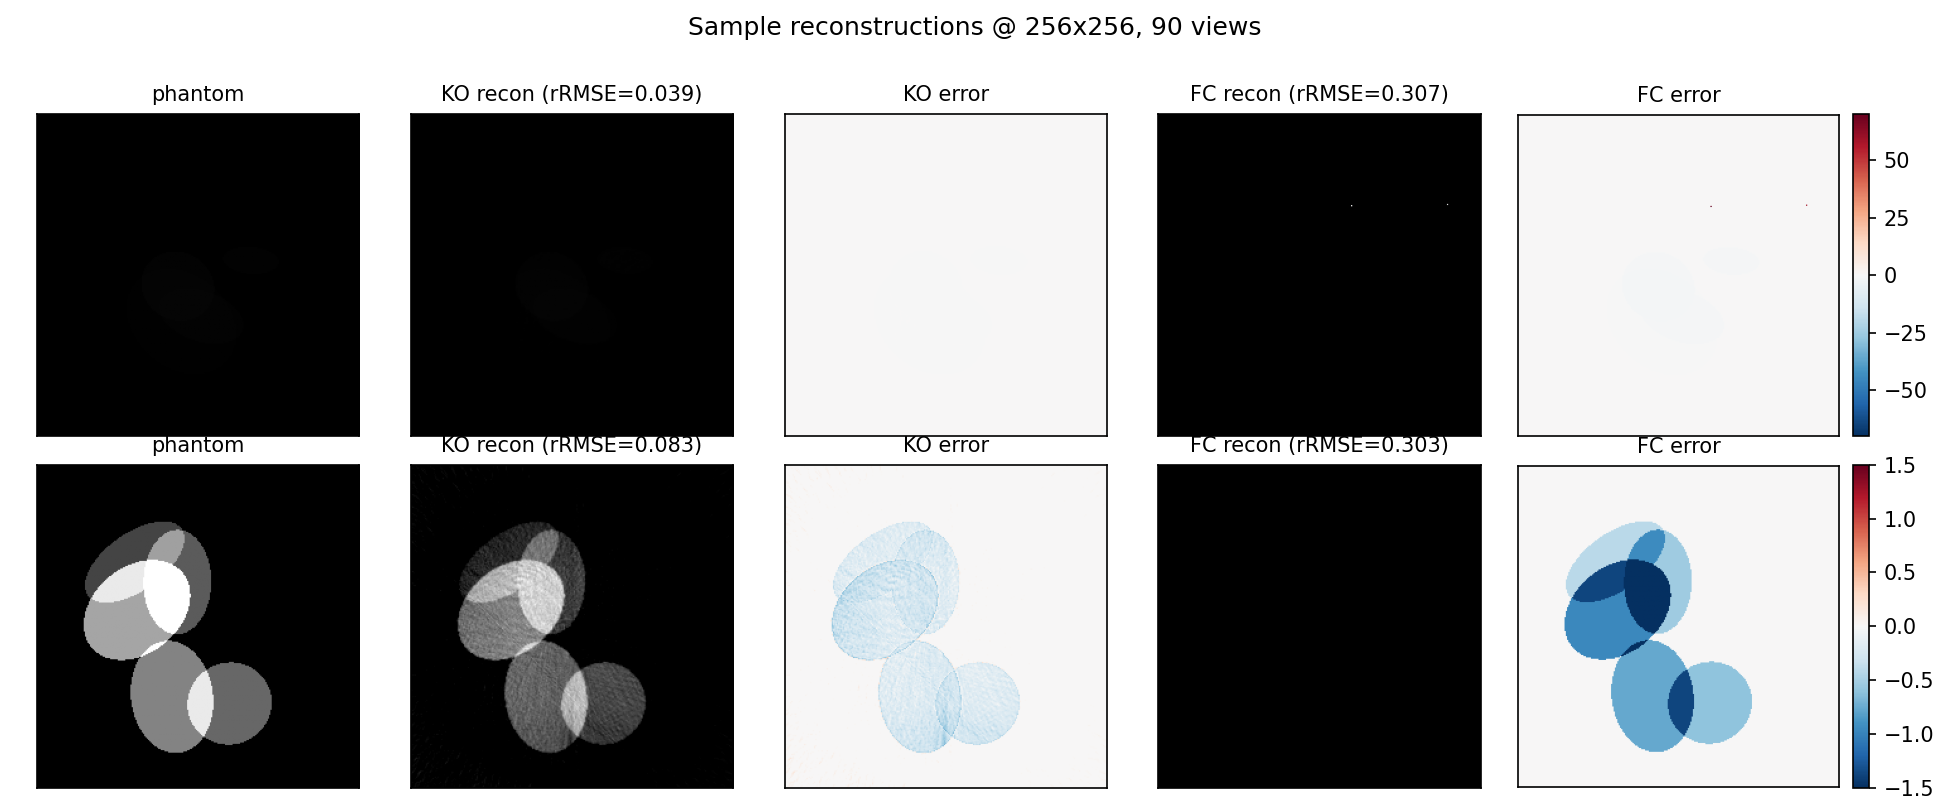
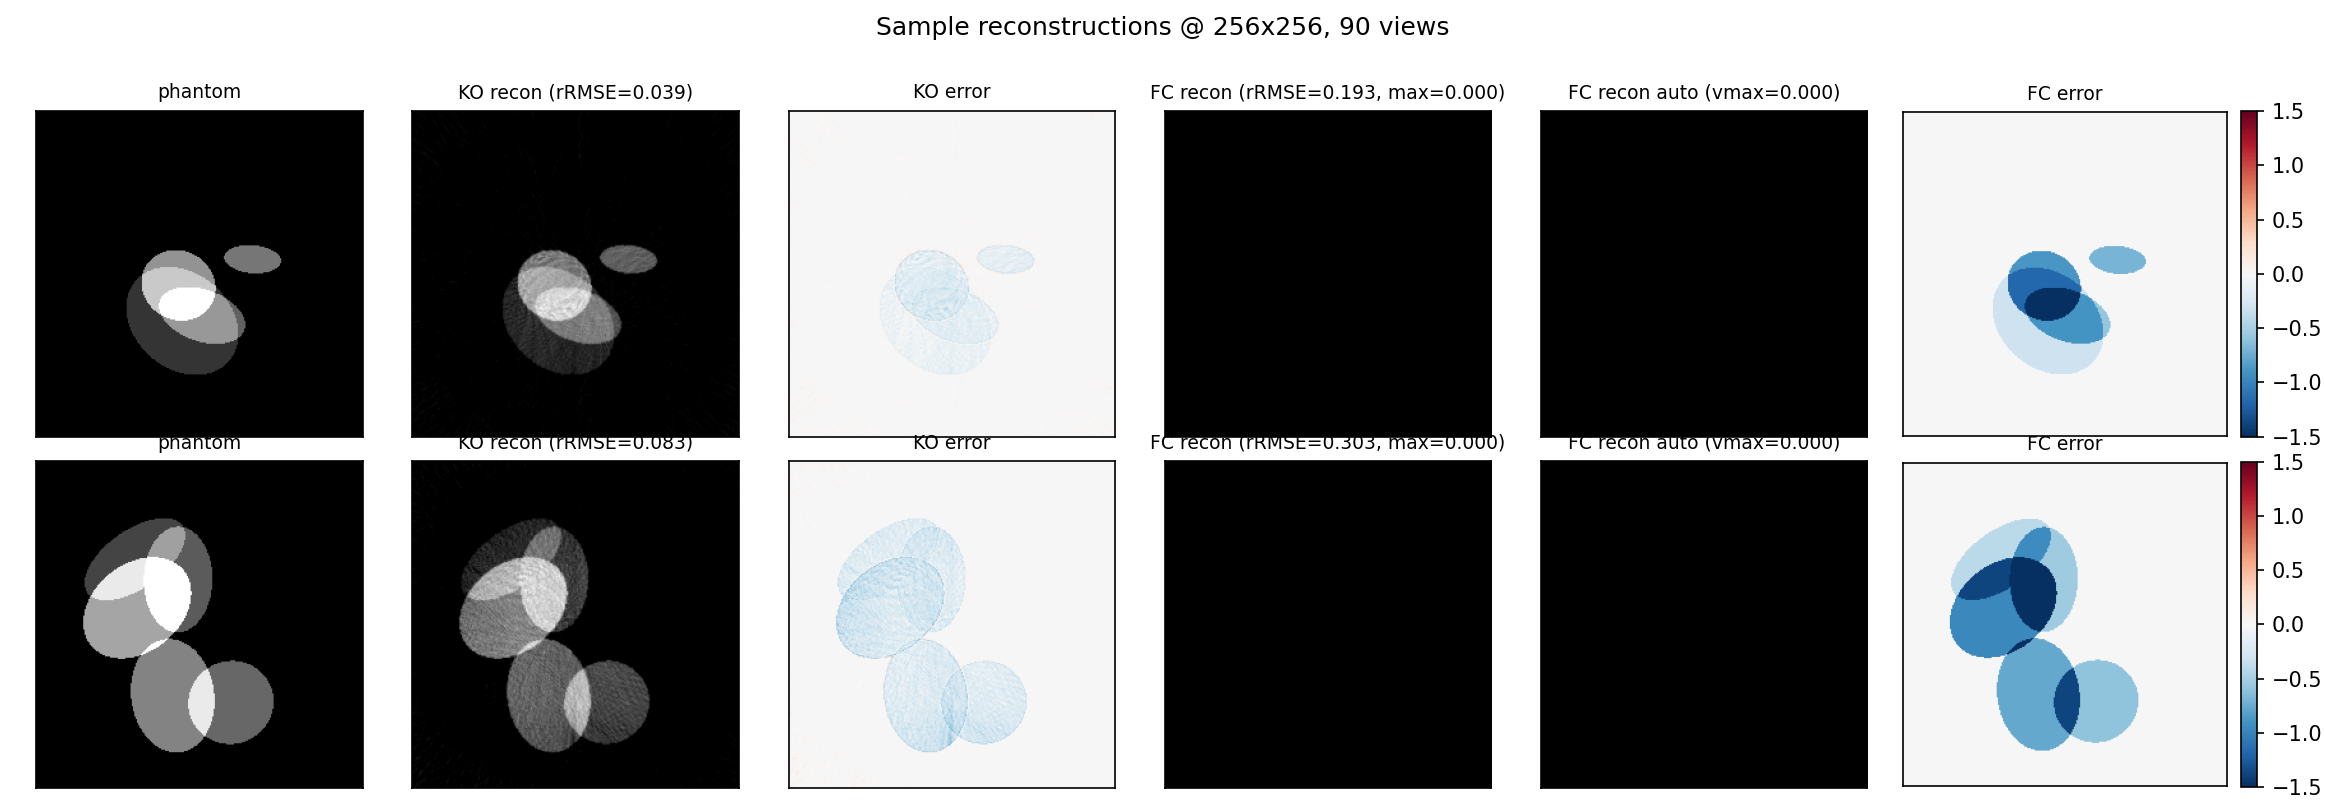
Render reconstructions with FC ablation knobs
* render_reconstructions.py: add --fc-optimizer, --fc-lr, --fc-bias,
  --fc-init, --fc-tag flags. KO is unchanged (always Adagrad with
  config-default LR); only FC's recipe varies. Useful for chasing a
  non-empty FC reconstruction past the dead-ReLU plateau the original
  Adagrad/lr=2e-2 config falls into.
* lme/slurm/recons_variant.sbatch: thin wrapper that takes the variant
  via env vars (VARIANT_TAG, FC_OPTIMIZER, FC_LR, FC_BIAS, FC_INIT) and
  writes to results/sample_efficiency_256/variants/recons_<tag>.png.

diff --git a/src/render_reconstructions.py b/src/render_reconstructions.py
@@ -43,6 +43,17 @@ def parse_args() -> argparse.Namespace:
     parser.add_argument("--num-samples", type=int, default=2,
                         help="How many test slices to render in the figure.")
     parser.add_argument("--out", required=True, help="Output PNG path.")
+    # FC ablation knobs — try alternative recipes to escape the dead-ReLU
+    # plateau the default config falls into. Defaults match the config.
+    parser.add_argument("--fc-optimizer", choices=["adagrad", "adam"], default="adagrad")
+    parser.add_argument("--fc-lr", type=float, default=None,
+                        help="Override learning rate for the FC model only.")
+    parser.add_argument("--fc-bias", action="store_true",
+                        help="Replace FC's bias-free Linear with a Linear that has bias.")
+    parser.add_argument("--fc-init", choices=["kaiming", "xavier"], default="kaiming",
+                        help="Re-initialize FC's weight matrix with this scheme.")
+    parser.add_argument("--fc-tag", default="",
+                        help="Annotation appended to the figure title.")
     return parser.parse_args()
 
 
@@ -66,8 +77,12 @@ def materialize(geometry, n, seed, ellipses, device):
 
 
 def train(model: nn.Module, train_set, num_iter: int, batch_size: int,
-          learning_rate: float, device, rng_seed: int) -> float:
-    optimizer = torch.optim.Adagrad(model.parameters(), lr=learning_rate)
+          learning_rate: float, device, rng_seed: int,
+          optimizer_kind: str = "adagrad"):
+    if optimizer_kind == "adam":
+        optimizer = torch.optim.Adam(model.parameters(), lr=learning_rate)
+    else:
+        optimizer = torch.optim.Adagrad(model.parameters(), lr=learning_rate)
     loss_fn = nn.MSELoss()
     rng = torch.Generator(device="cpu").manual_seed(rng_seed)
     n = len(train_set)
@@ -91,7 +106,7 @@ def train(model: nn.Module, train_set, num_iter: int, batch_size: int,
 
 
 def render(test_set, ko_recons, fc_recons, out_path: Path,
-           image_size: int, num_views: int) -> None:
+           image_size: int, num_views: int, subtitle: str = "") -> None:
     """6-column figure:
         phantom | KO recon | KO error | FC recon (shared scale) | FC recon (auto) | FC error
 
@@ -144,11 +159,10 @@ def render(test_set, ko_recons, fc_recons, out_path: Path,
         # colourbar on the right of each row's last error panel for scale
         plt.colorbar(im, ax=axes[i, -1], fraction=0.046, pad=0.04)
 
-    fig.suptitle(
-        f"Sample reconstructions @ {image_size}x{image_size}, "
-        f"{num_views} views",
-        fontsize=12,
-    )
+    title = f"Sample reconstructions @ {image_size}x{image_size}, {num_views} views"
+    if subtitle:
+        title = f"{title} — {subtitle}"
+    fig.suptitle(title, fontsize=12)
     fig.tight_layout(rect=(0, 0, 1, 0.97))
     fig.savefig(out_path, dpi=150)
     plt.close(fig)
@@ -180,13 +194,35 @@ def main() -> None:
 
     ko = KnownOperatorReconstructor(geometry).to(device)
     t_ko, last_ko = train(ko, train_set, args.num_iterations, batch_size, lr,
-                           device, rng_seed=base_seed + 1000)
+                           device, rng_seed=base_seed + 1000,
+                           optimizer_kind="adagrad")
     print(f"[render] trained KO ({t_ko:.1f}s, last_loss={last_ko:.4e})", flush=True)
 
+    # FC: optionally swap in a Linear with bias and re-init.
     fc = FullyConnectedReconstructor.from_geometry(geometry).to(device)
-    t_fc, last_fc = train(fc, train_set, args.num_iterations, batch_size, lr,
-                           device, rng_seed=base_seed + 1001)
-    print(f"[render] trained FC ({t_fc:.1f}s, last_loss={last_fc:.4e})", flush=True)
+    if args.fc_bias:
+        n_in = fc.linear.in_features
+        n_out = fc.linear.out_features
+        fc.linear = nn.Linear(n_in, n_out, bias=True).to(device)
+    if args.fc_init == "xavier":
+        nn.init.xavier_uniform_(fc.linear.weight)
+    else:
+        # kaiming-uniform with a=sqrt(5) matches the default in nn.Linear
+        import math
+        nn.init.kaiming_uniform_(fc.linear.weight, a=math.sqrt(5))
+    if fc.linear.bias is not None:
+        nn.init.zeros_(fc.linear.bias)
+
+    fc_lr = args.fc_lr if args.fc_lr is not None else lr
+    t_fc, last_fc = train(fc, train_set, args.num_iterations, batch_size, fc_lr,
+                           device, rng_seed=base_seed + 1001,
+                           optimizer_kind=args.fc_optimizer)
+    print(
+        f"[render] trained FC ({t_fc:.1f}s, last_loss={last_fc:.4e}, "
+        f"opt={args.fc_optimizer}, lr={fc_lr}, "
+        f"bias={args.fc_bias}, init={args.fc_init})",
+        flush=True,
+    )
 
     ko.eval(); fc.eval()
     ko_recons = []
@@ -197,7 +233,8 @@ def main() -> None:
             fc_recons.append(fc(sino).detach().cpu().numpy())
 
     render(test_set, ko_recons, fc_recons, out_path,
-           image_size=geometry.image_size, num_views=geometry.num_views)
+           image_size=geometry.image_size, num_views=geometry.num_views,
+           subtitle=args.fc_tag)
     print(f"[render] wrote {out_path}", flush=True)
 
 